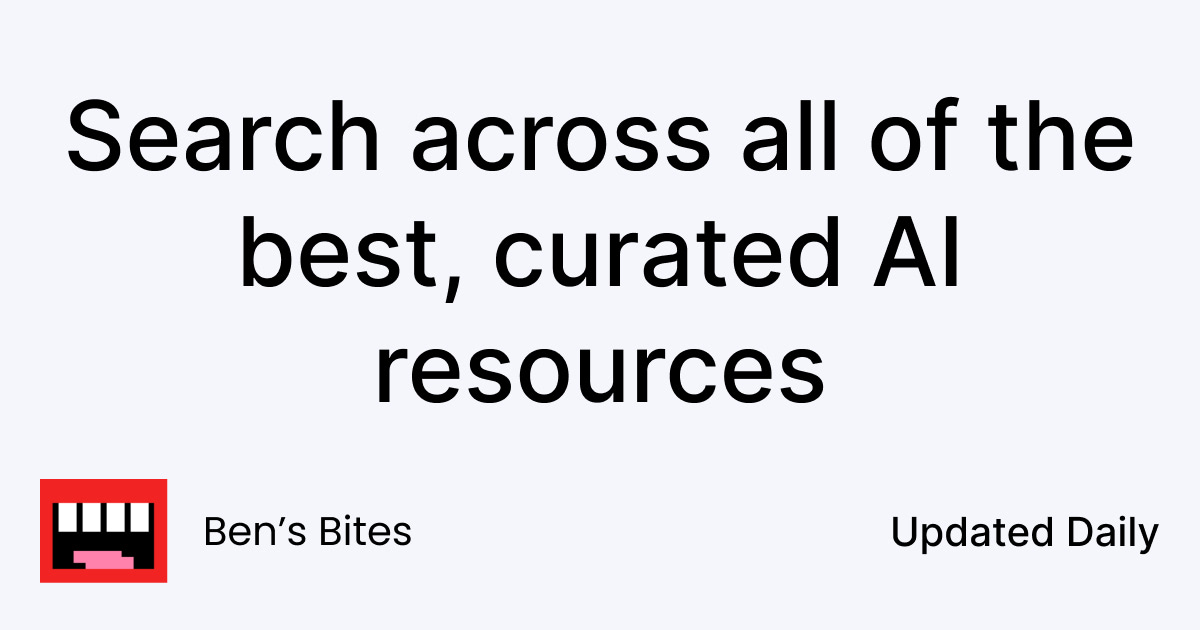
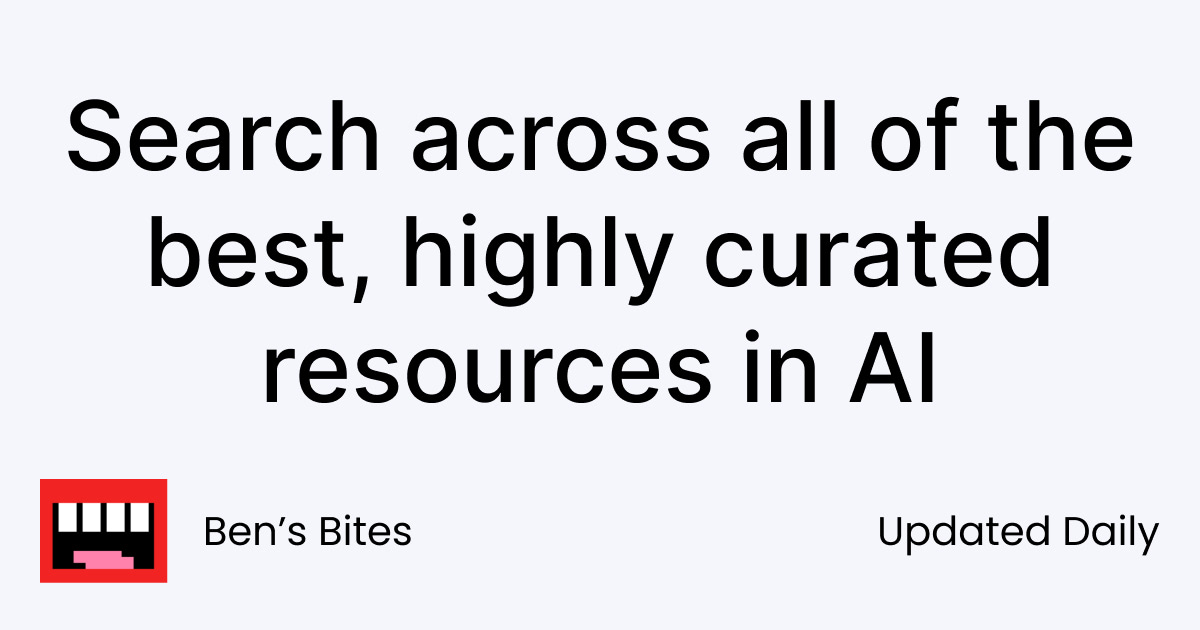
🙃

Changed region(s): [[0.1233, 0.3317, 0.8942, 0.4825], [0.2158, 0.5127, 0.8017, 0.6635], [0.74, 0.8143, 0.9558, 0.8746]]

diff --git a/src/lib/config.ts b/src/lib/config.ts
@@ -4,9 +4,9 @@ export const isServer = typeof window === 'undefined'
 export const isSafari =
   !isServer && /^((?!chrome|android).)*safari/i.test(navigator.userAgent)
 
-export const title = "Ben's Bites Links"
+export const title = "Ben's Bites AI Search"
 export const description =
-  "Your daily dose of what's going on in AI. In 5 minutes or less, with a touch of humour. Read by over 50,000 others from Google, a16z, Sequoia, Amazon, Meta and more."
+  "Search across all of the best, curated AI resources – powered by Ben's Bites AI Newsletter, with over 60,000 subscribers from Google, a16z, Sequoia, Amazon, Meta and more."
 
 export const domain = 'bensbites.vercel.app'
 

diff --git a/src/components/Footer/Footer.tsx b/src/components/Footer/Footer.tsx
@@ -17,6 +17,16 @@ export const Footer: React.FC<{ className?: string }> = ({ className }) => {
         </a>
       </div>
 
+      <div className={styles.copyright}>
+        <a
+          href={config.newsletterUrl}
+          target='_blank'
+          rel='noopener noreferrer'
+        >
+          Powered by Ben&apos;s Bites Newsletter
+        </a>
+      </div>
+
       <div className={styles.social}>
         <a
           className={cs(styles.discord, styles.action)}

diff --git a/src/components/SearchResults/SearchResults.tsx b/src/components/SearchResults/SearchResults.tsx
@@ -60,7 +60,7 @@ export const EmptyQuery: React.FC = () => {
 
   return (
     <div className={styles.emptyResults}>
-      <p>
+      <p className={styles.desc}>
         Search across all of the best resources in AI – powered by{' '}
         <a
           href={config.newsletterUrl}

diff --git a/src/components/SearchResults/styles.module.css b/src/components/SearchResults/styles.module.css
@@ -24,3 +24,7 @@
 .emptyResults p {
   margin-bottom: 1em;
 }
+
+.desc {
+  text-align: center;
+}
